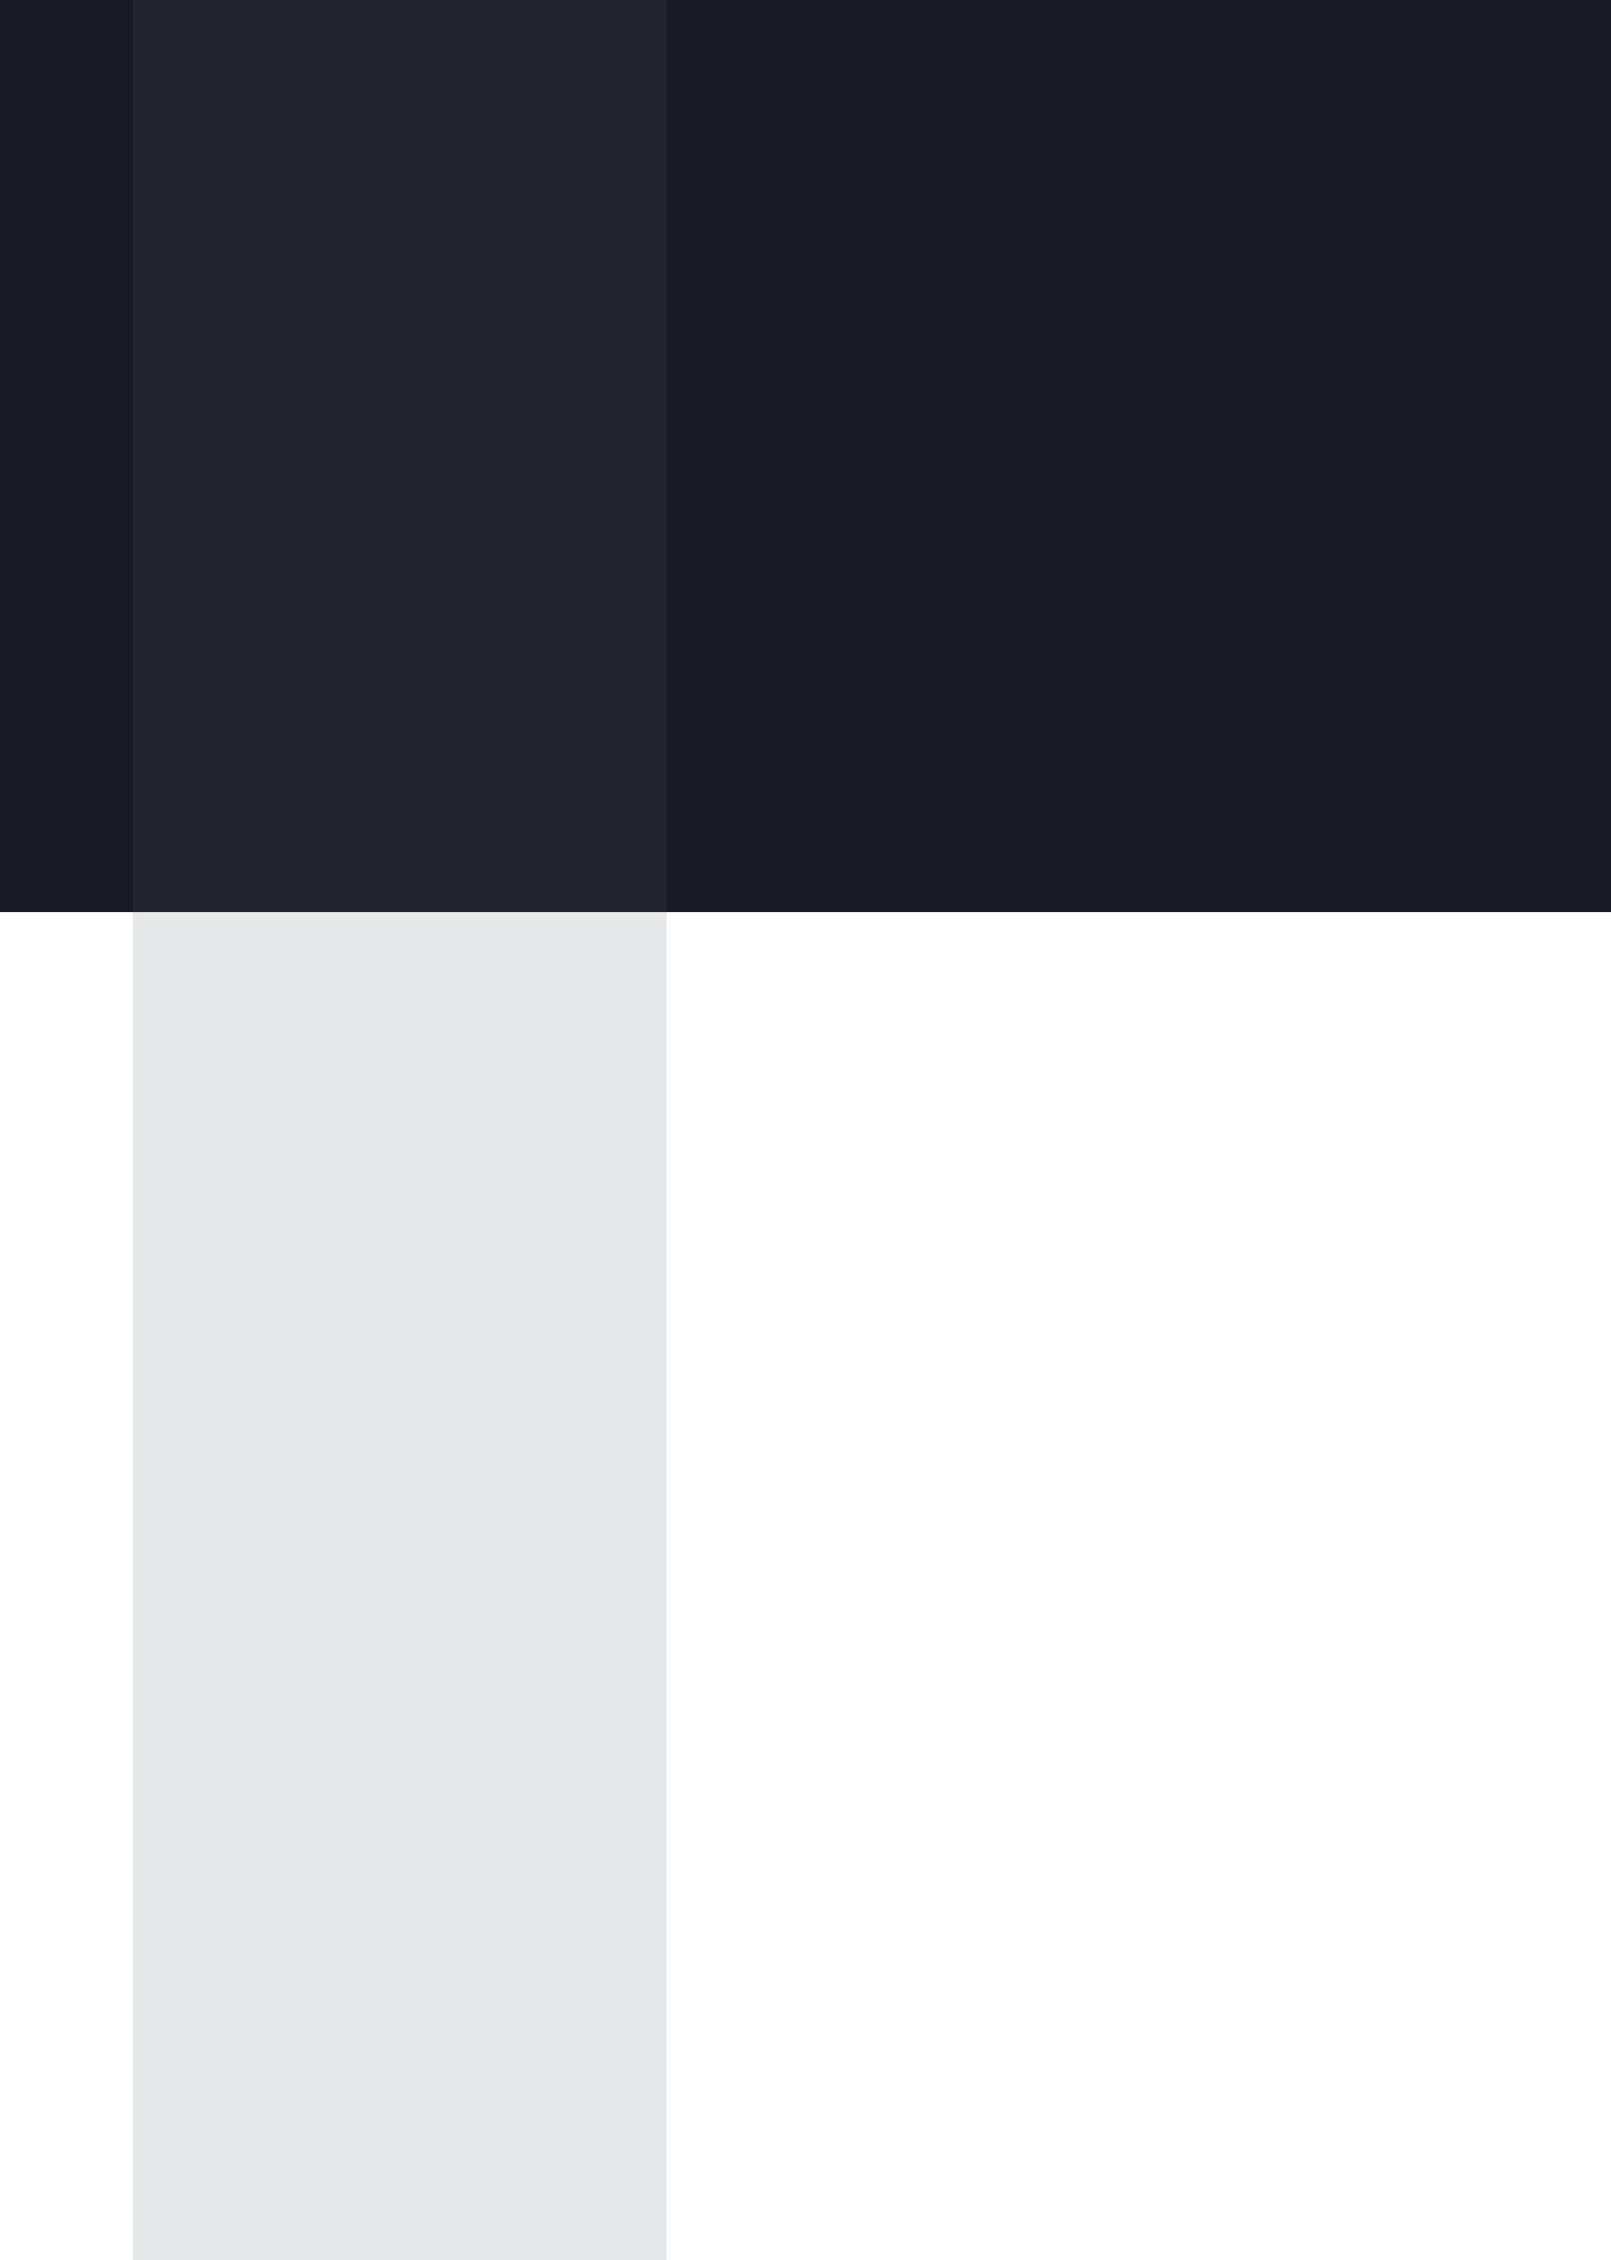
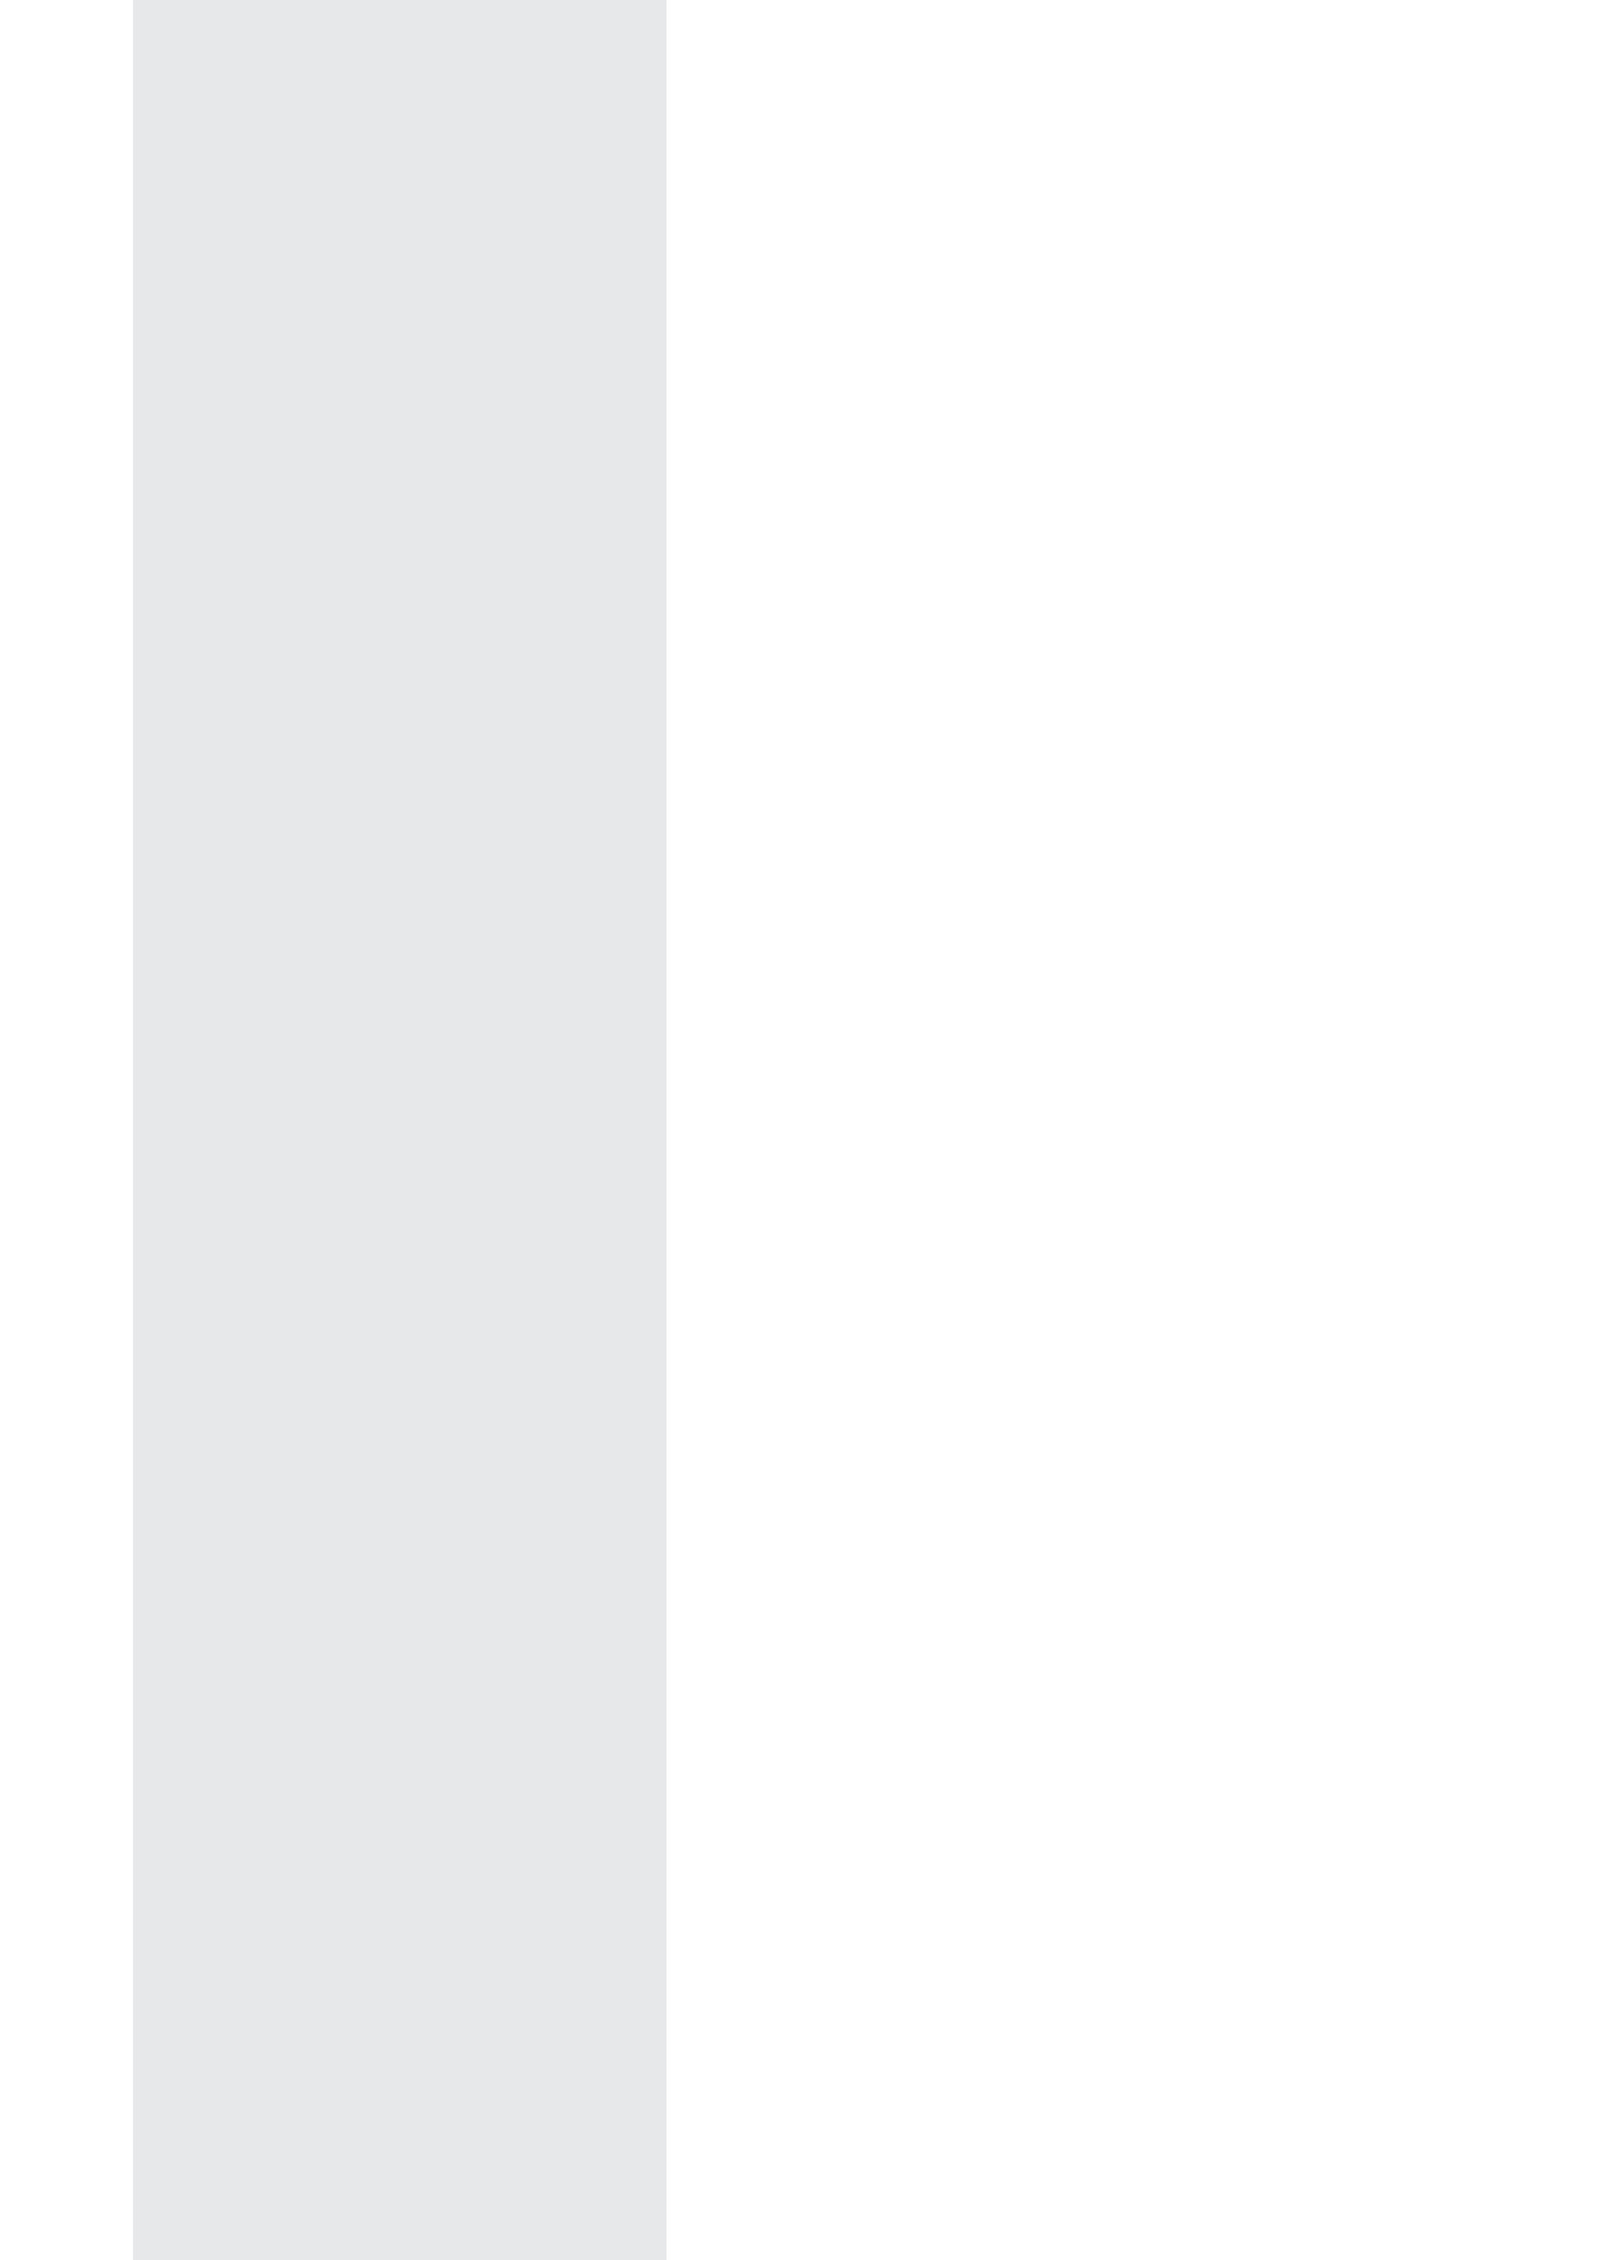
feat: edit background

diff --git a/assets/css/style.css b/assets/css/style.css
@@ -5,6 +5,7 @@ body {
     font-size: 15px;
     line-height: 1.6;
     color: #333;
+    
     }
     *,
 *::before,
@@ -22,23 +23,32 @@ h1, h2, h3, h4, h5, h6 {
     max-width: 2555px;
     margin: 0 auto;
     align-items: center;
+    
 }
 /*Intro*/
 .intro {
-    width: 100%;
-    height: 200vh;
     background: url(../images/intro.jpg) center no-repeat;
     background-size: cover;
 }
 .intro__inner {
+    height: 230px;
     width: 100%;
-    max-width: 880px;
+    max-width: 600px;
     position: relative;
+    
     right: -820px;
     top: -450px;
     color: #fff;
 }
 .intro__title {
+    background-color:#181a26;
+    height: 525px;
+    position: relative;
+    padding-left: 16%;
+    margin: 0 auto;
+    top: -24px;
+    left: -103px;
+    width: 1200px;
     font-size: 130px;
     font-weight: 800;
     text-transform: uppercase;
@@ -57,7 +67,7 @@ h1, h2, h3, h4, h5, h6 {
     text-transform: uppercase;
     line-height: 1.1;
     position: relative;
-    bottom: -80px;
+    top: -200px;
     font-family: 'Lato', sans-serif;
     background-color:#2e323b;
 }
@@ -77,6 +87,7 @@ h1, h2, h3, h4, h5, h6 {
 .header__inner {
     display: flex;
     justify-content: space-between;
+    
 }
 .header__logo {
     font-size: 35px;
@@ -84,6 +95,7 @@ h1, h2, h3, h4, h5, h6 {
     color: #ffffff;
     position: relative;
     right: -250px;
+    
 }
 /*nav*/
 .nav {
@@ -113,6 +125,7 @@ h1, h2, h3, h4, h5, h6 {
         z-index: 1;
         opacity: 0;
         transition: opacity 1s linear;
+        
     
     }
     .nav__link:hover {
@@ -124,13 +137,13 @@ h1, h2, h3, h4, h5, h6 {
     }
     .avatar {
         width: 100%;
-        max-width: 627px;
-        height: 560px;
+        max-width: 810px;
+        height: 545px;
         margin: 0 auto;
         position: relative;
         border: 5px solid #f8ce36;
         position: relative;
-        left: -480px;
+        left: -640px;
         bottom: -55px;
         
         }

diff --git a/index.html b/index.html
@@ -30,7 +30,7 @@
     </header>
     <div class="intro">
         <div class="avatar">
-            <img src="./assets/images/avatar.png" width="617" height="550">
+            <img src="./assets/images/avatar.png" width="800" height="535">
         </div>
 <div class="container">
     <div class="intro__inner">
@@ -61,7 +61,7 @@
 </div>
 <h1 class="main__inner">Code</h1>
 <div class="main">
-    <code>/*nav*/
+    <p></p><code>/*nav*/
         <p></p>.nav {
            <p></p> text-transform: uppercase;
             <p></p>font-size: 20px;
@@ -95,7 +95,7 @@
             <p></p>.nav__link:hover:after {
             <p></p>opacity: 1;
             <p></p>}
-    </code>
+    </code><p></p>
     </div>
 </body>
 </html>
